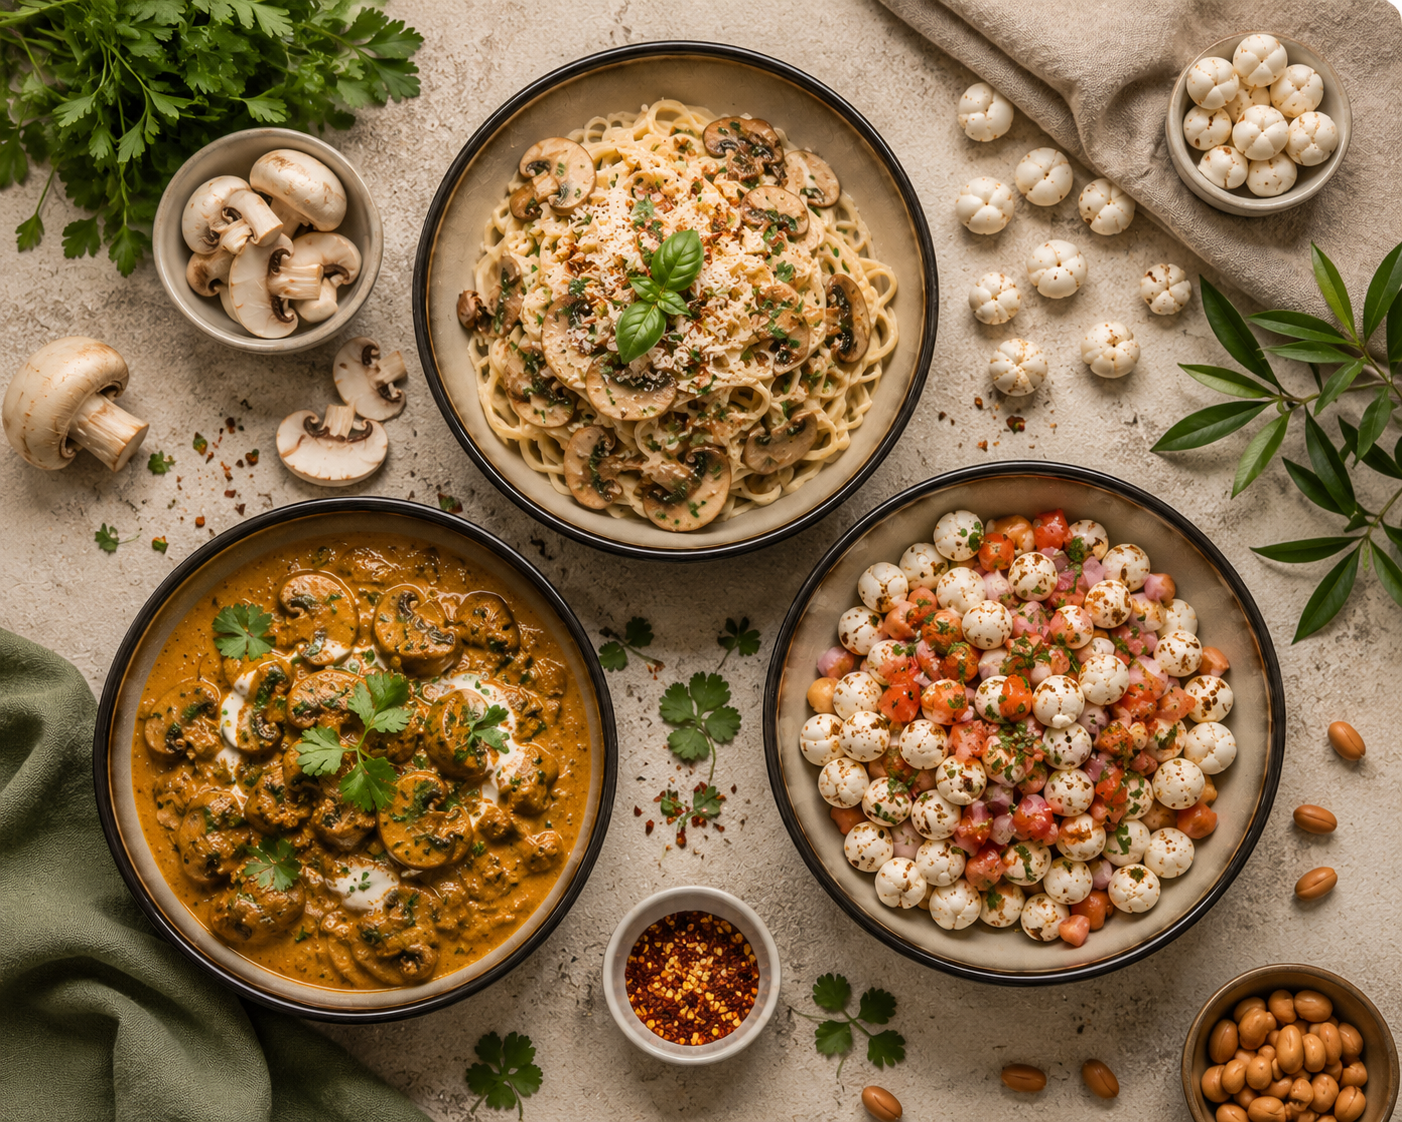
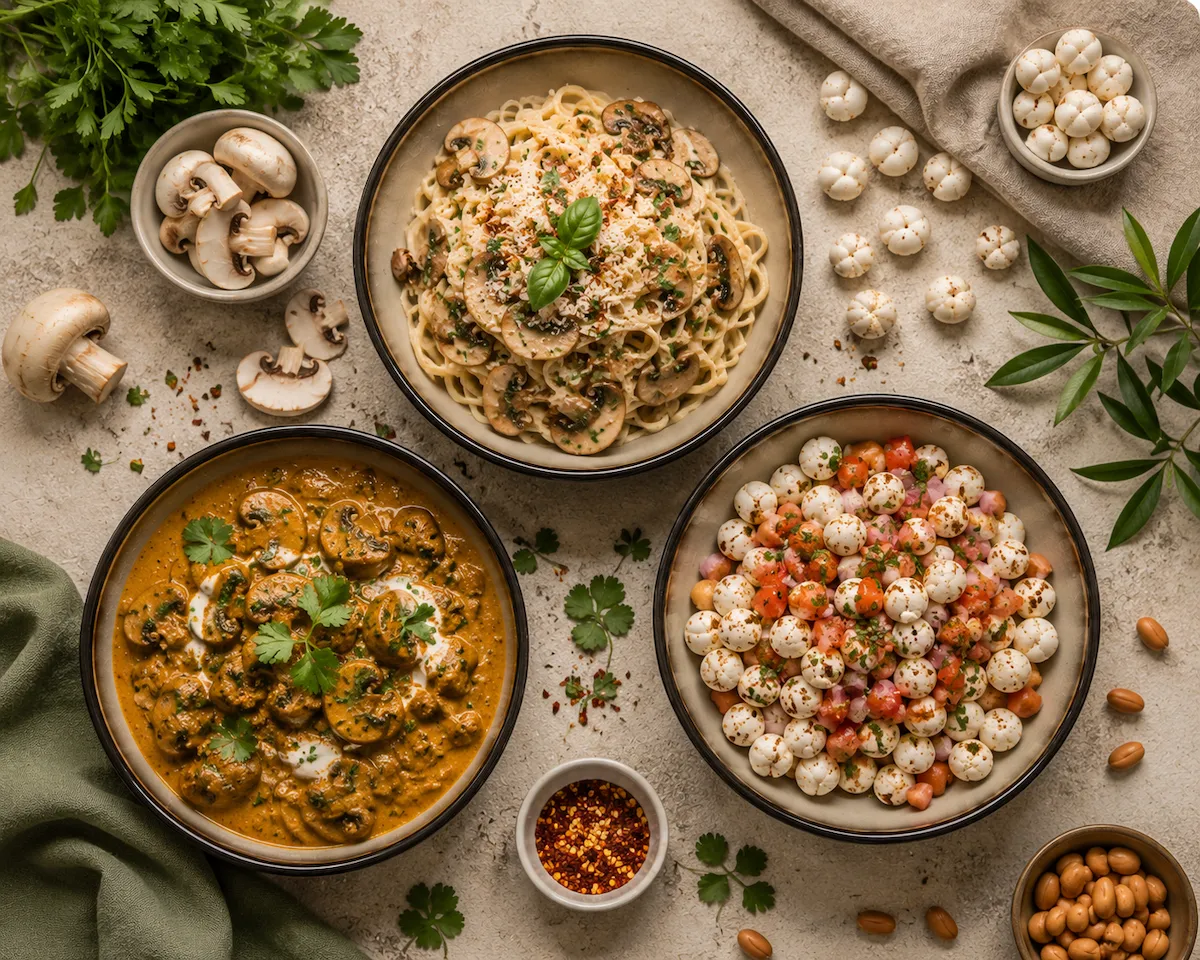
Optimize homepage hero image

Changed region(s): [[0.4625, 0.875, 0.5242, 0.9062], [0.37, 0.4375, 0.4008, 0.4688], [0.3392, 0.4062, 0.37, 0.4375]]

diff --git a/index.html b/index.html
@@ -126,7 +126,7 @@
       </div>
       <div class="hero-img-wrap">
         <img 
-        src="images/hero-food.webp" alt="Mushroom and makhana bowl" class="hero-img" />
+        src="images/hero-food.webp" alt="Mushroom and makhana bowl" class="hero-img" fetchpriority="high"/>
       </div>
     </div>
   </section>
